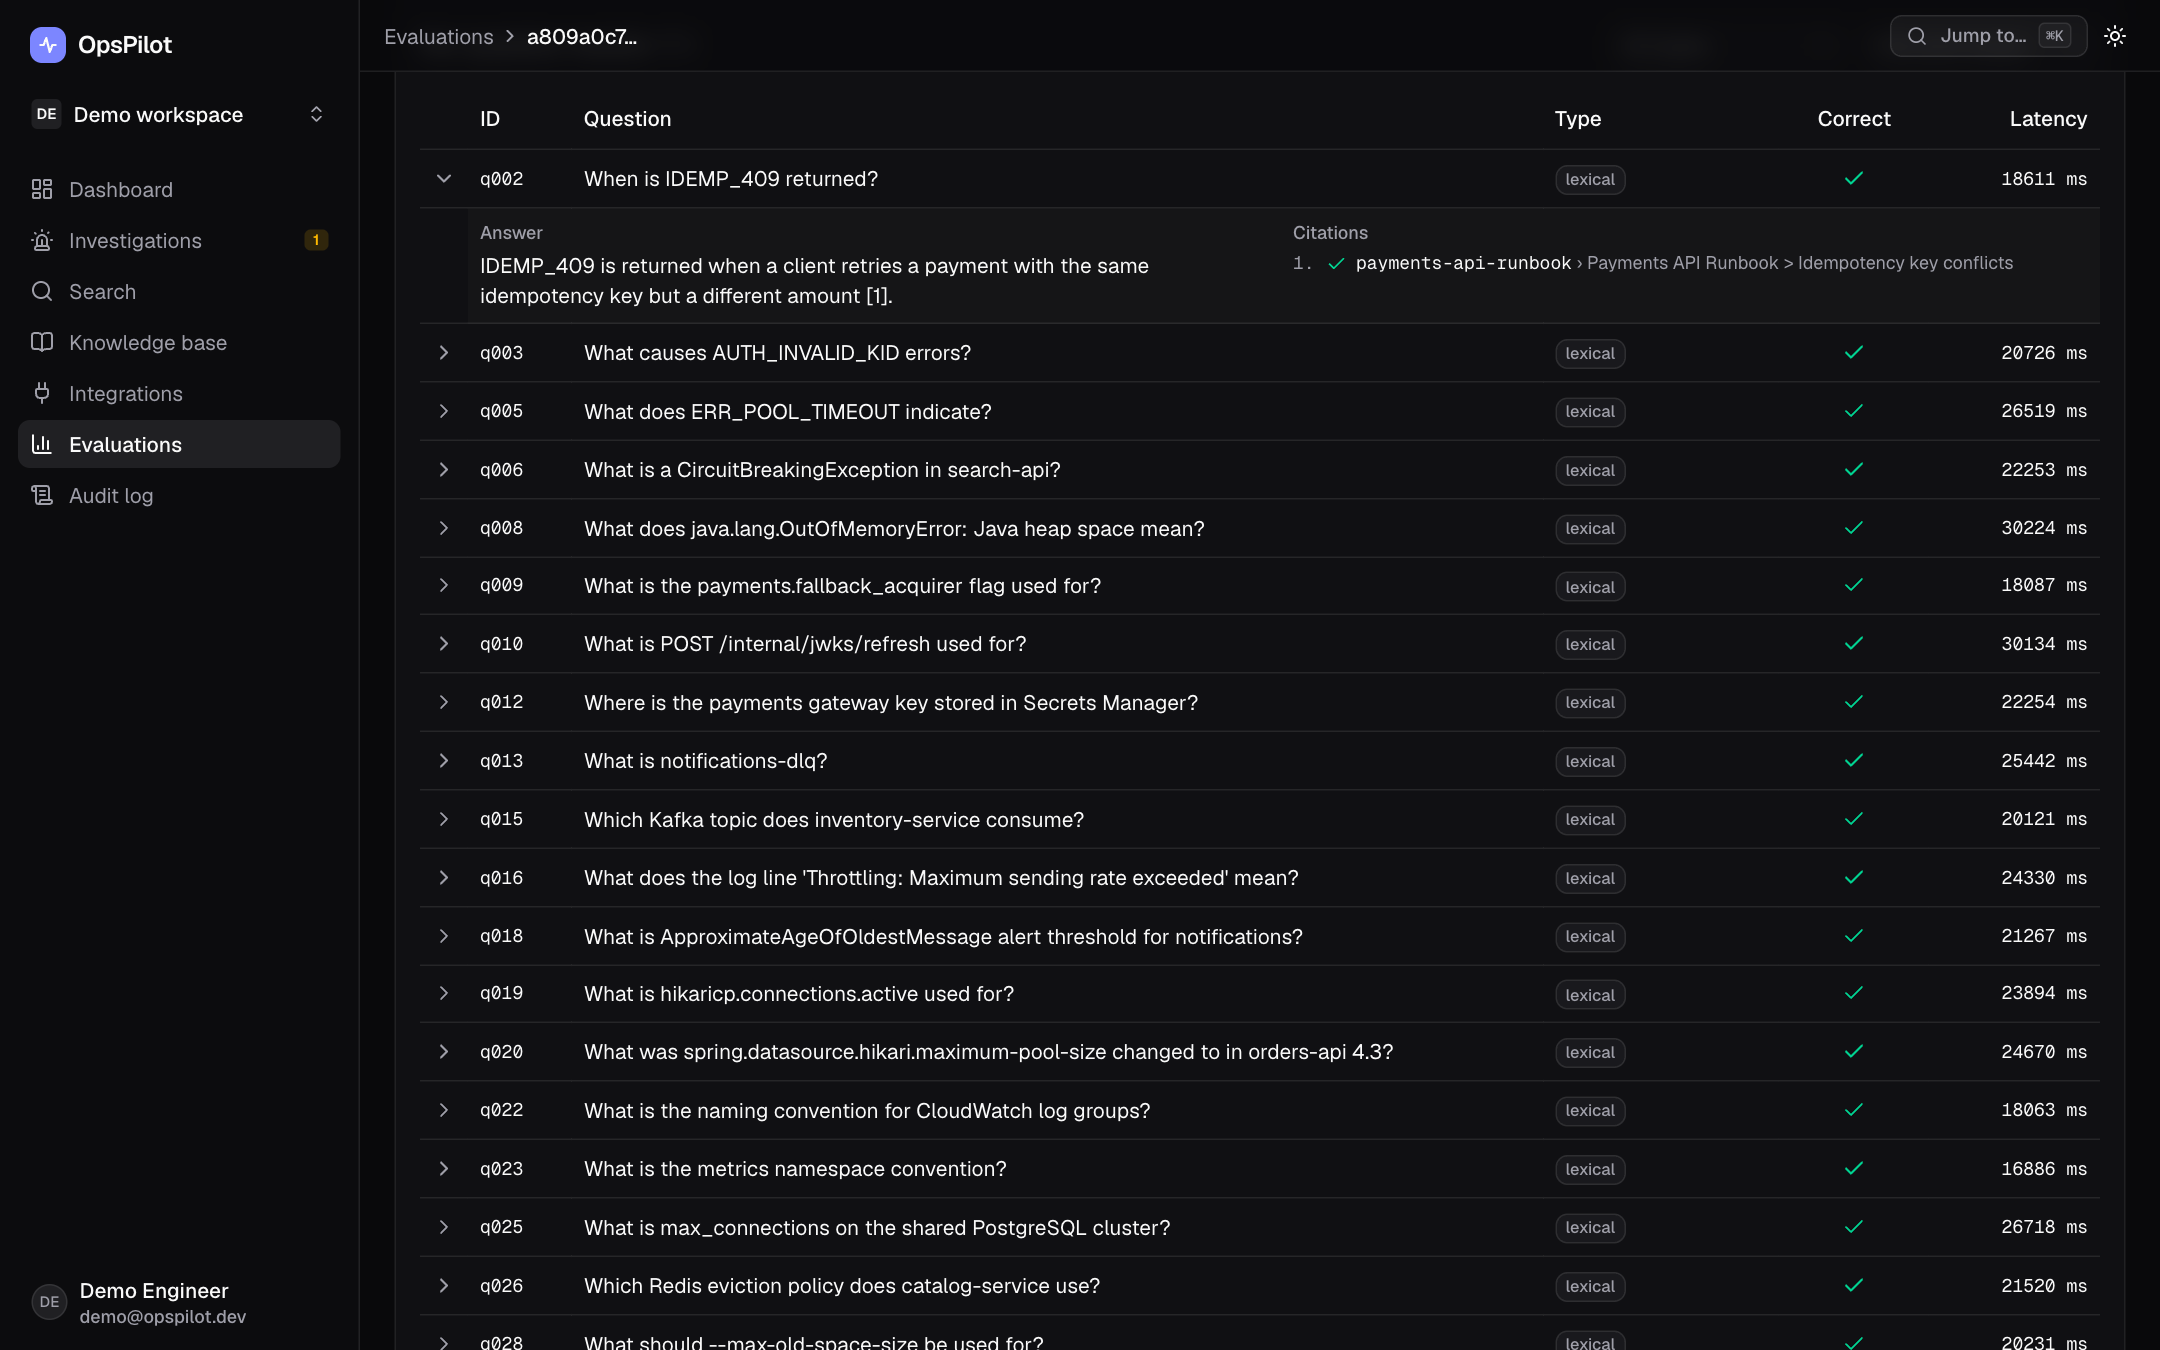
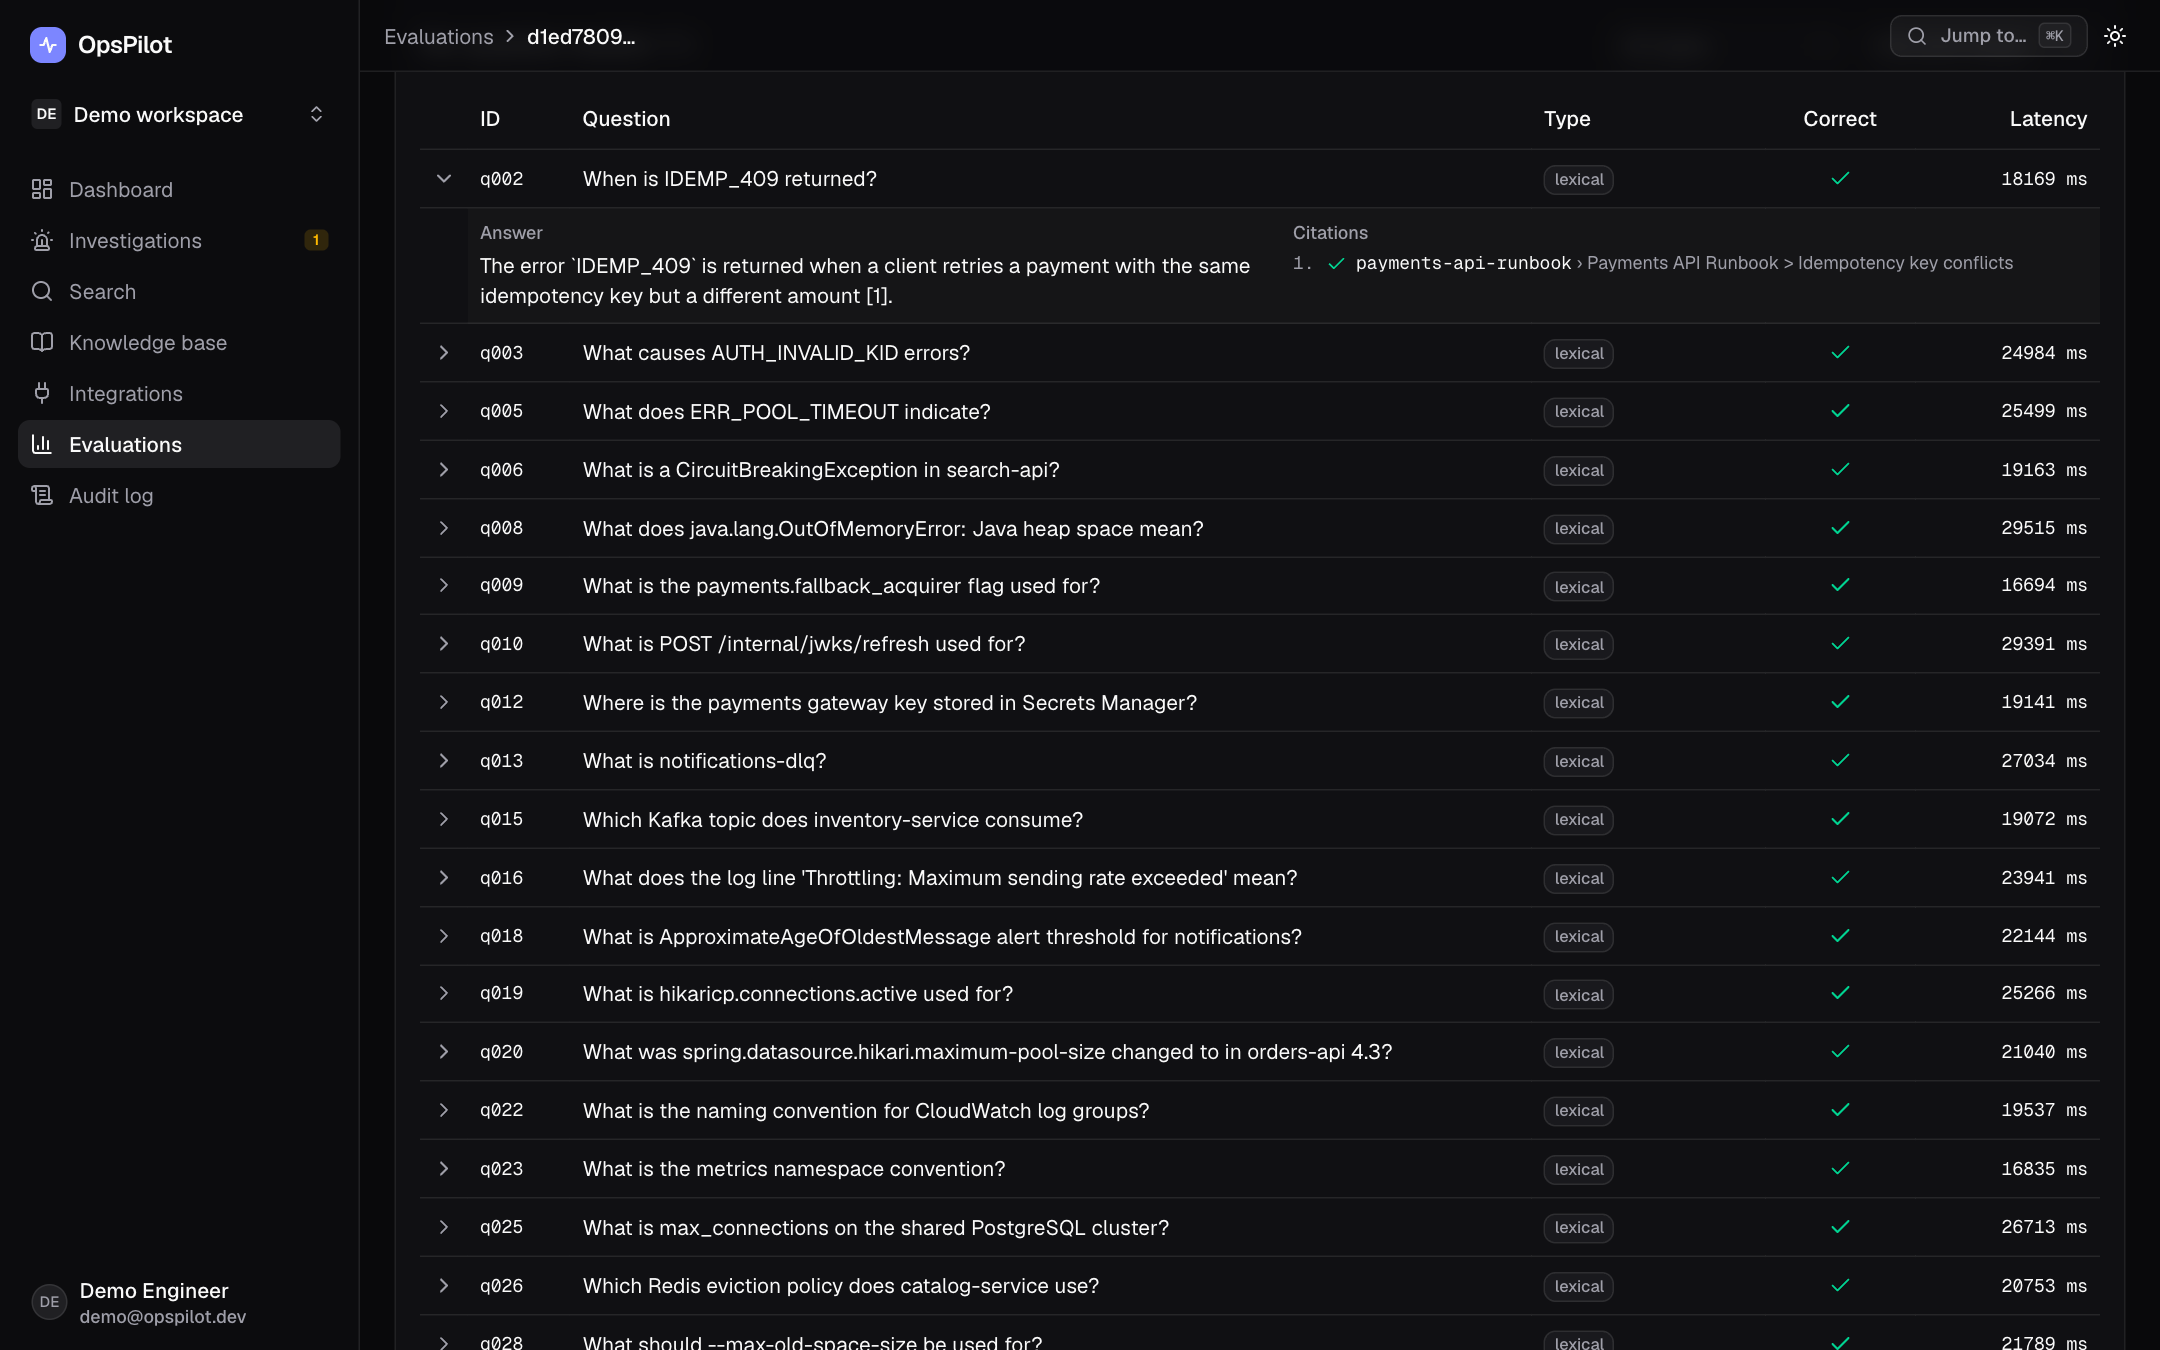
README: final answer-quality numbers; evaluation screenshots from the reproducible runs

diff --git a/README.md b/README.md
@@ -218,16 +218,16 @@ reproduced exactly on a brand-new database ([report](evaluation/reports/20261114
 | D: hybrid + cross-encoder rerank | **0.911** | 0.955 | **0.903** | **0.901** | 464 ms |
 
 Grounded answers over the same 70 questions with the local `opspilot-qwen3-8b` model
-([report](evaluation/reports/20261114-061903-answers-test.md)):
+([report](evaluation/reports/20261114-080026-answers-test.md); 0 model errors):
 
 | Metric | Value |
 |---|---|
 | Abstention accuracy (answers when it can, says "not enough evidence" when it can't) | 0.986 |
 | Abstains on unanswerable questions | 1.000 |
-| Citation precision (cited chunks from an expected section) | 0.726 |
+| Citation precision (cited chunks from an expected section) | 0.736 |
 | Citation coverage (answers with at least one correct citation) | 0.982 |
 | Expected-fact match (strict verbatim key phrases) | 0.800 |
-| Latency p50 / p95 | 22.7 s / 46.6 s |
+| Latency p50 / p95 | 25.0 s / 47.9 s |
 
 Faithfulness is not measured yet (no LLM judge or full human grading).
 
